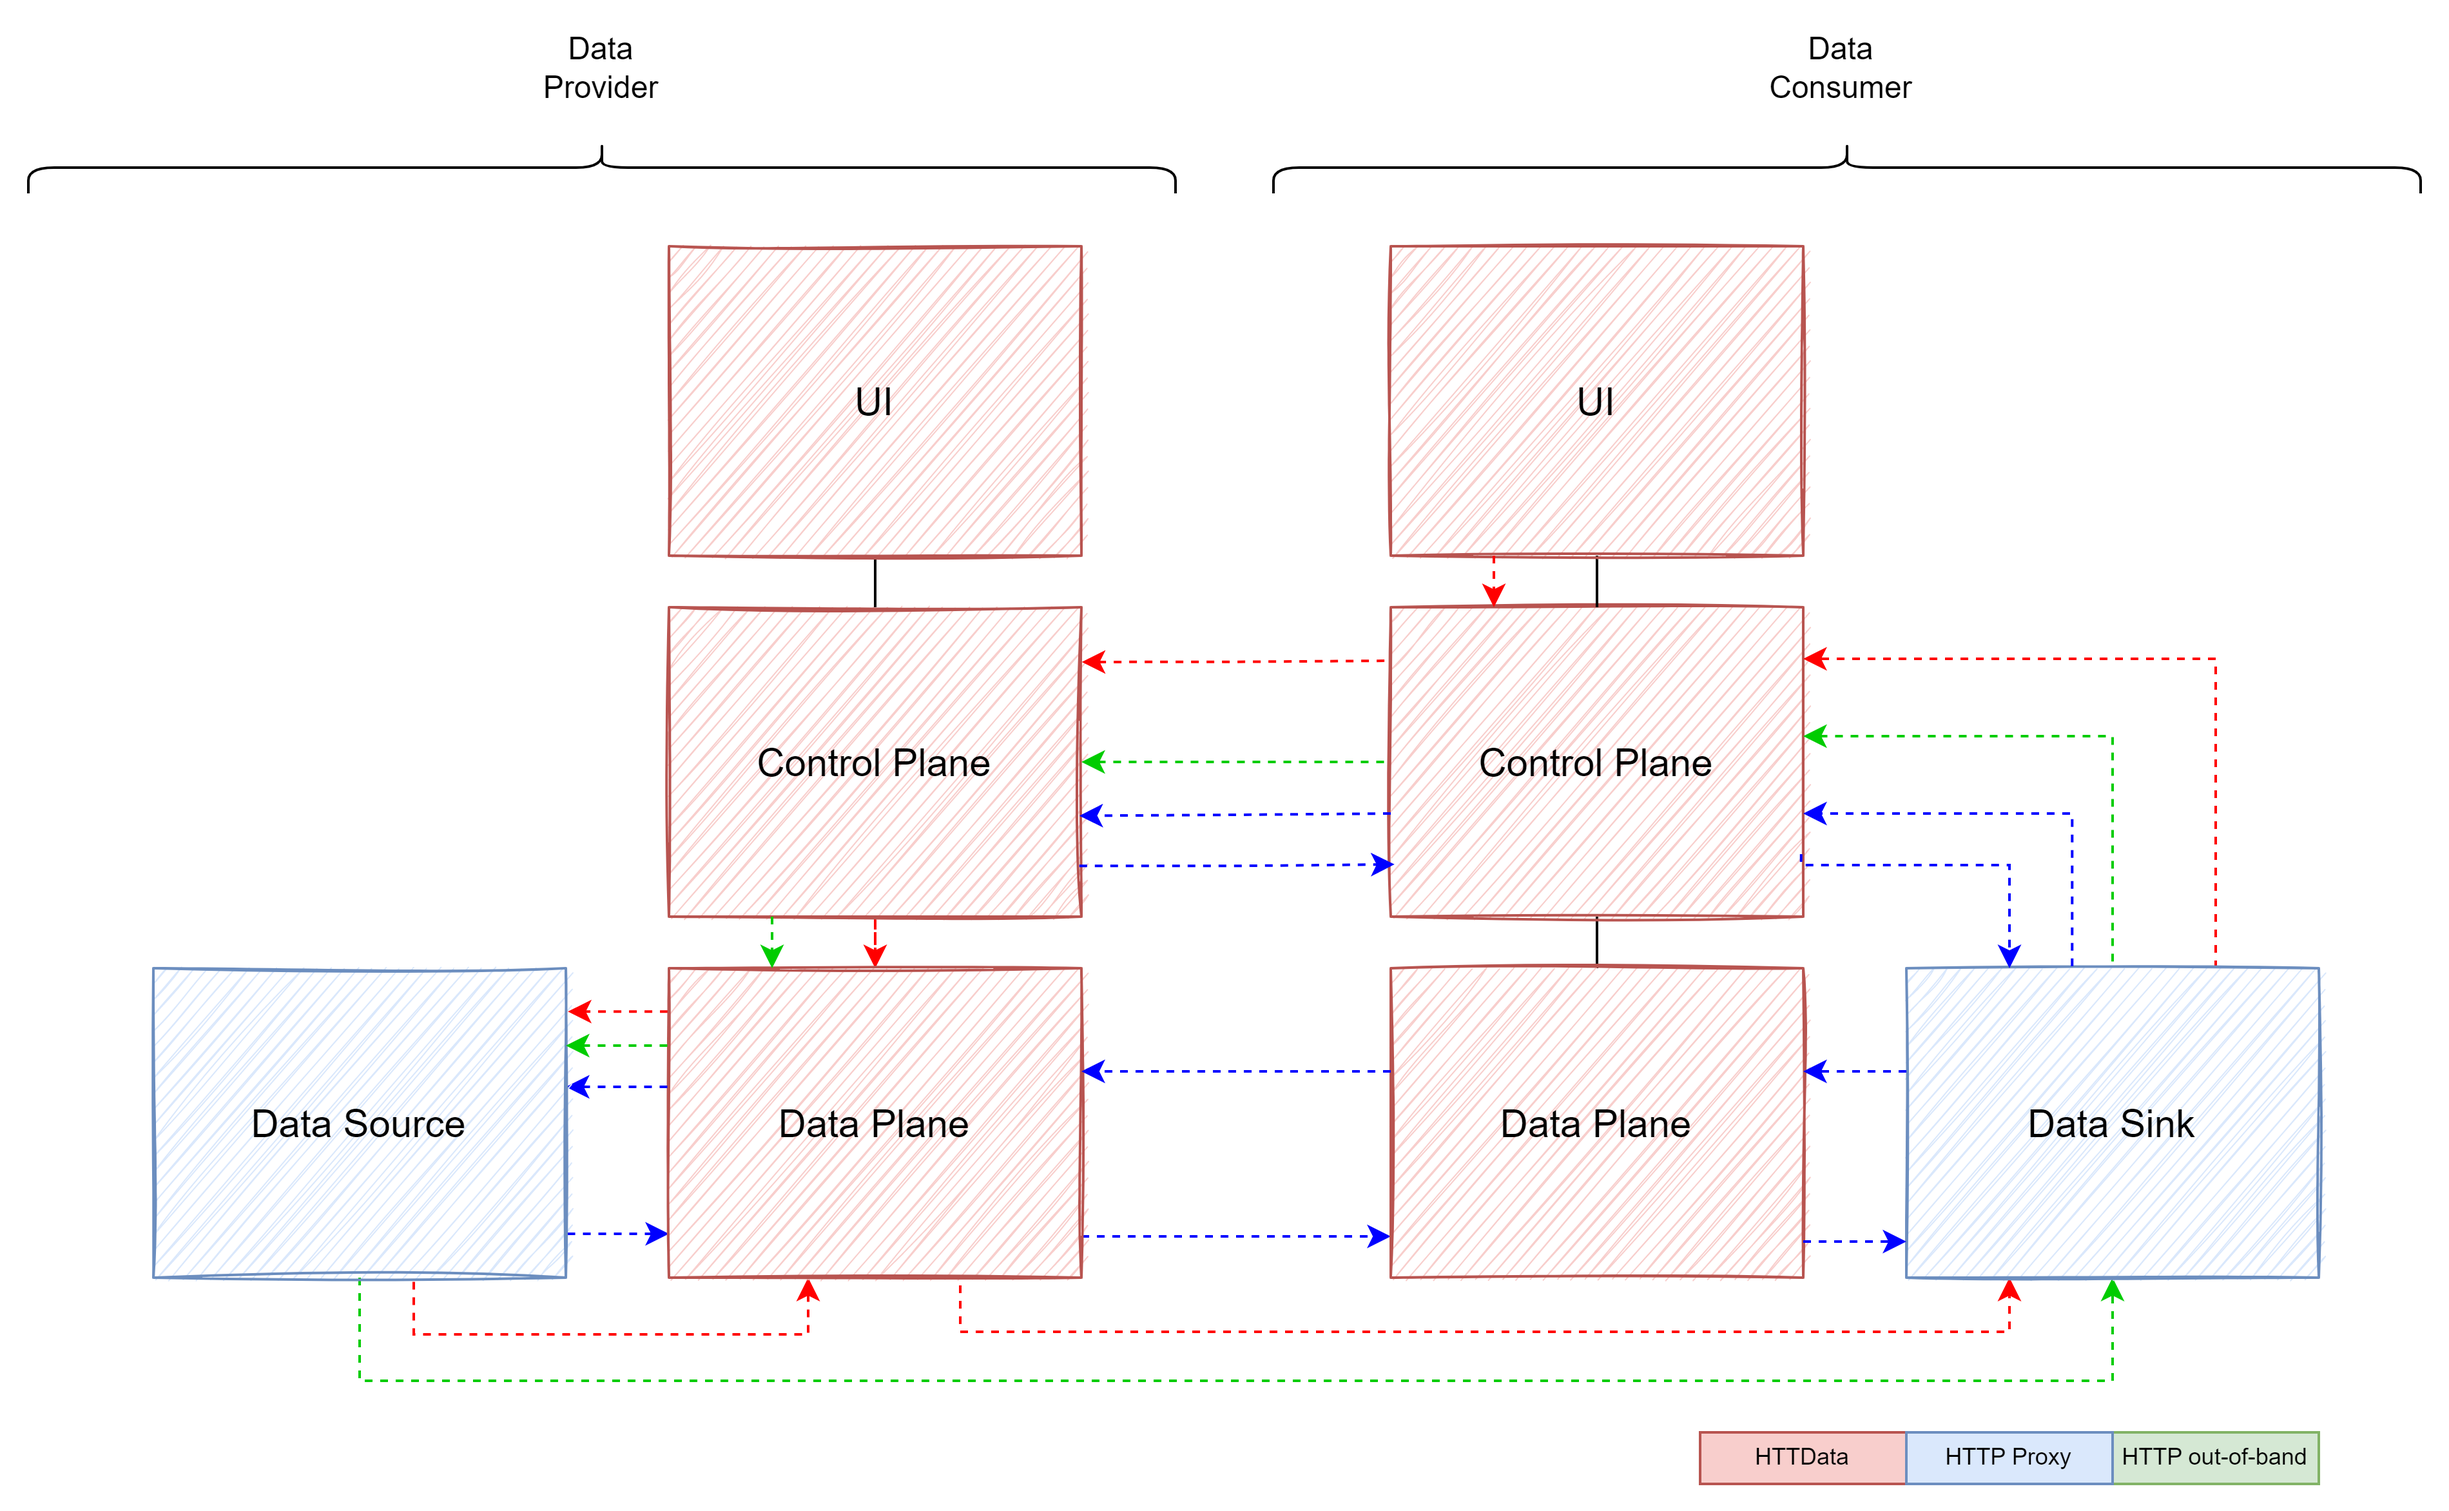
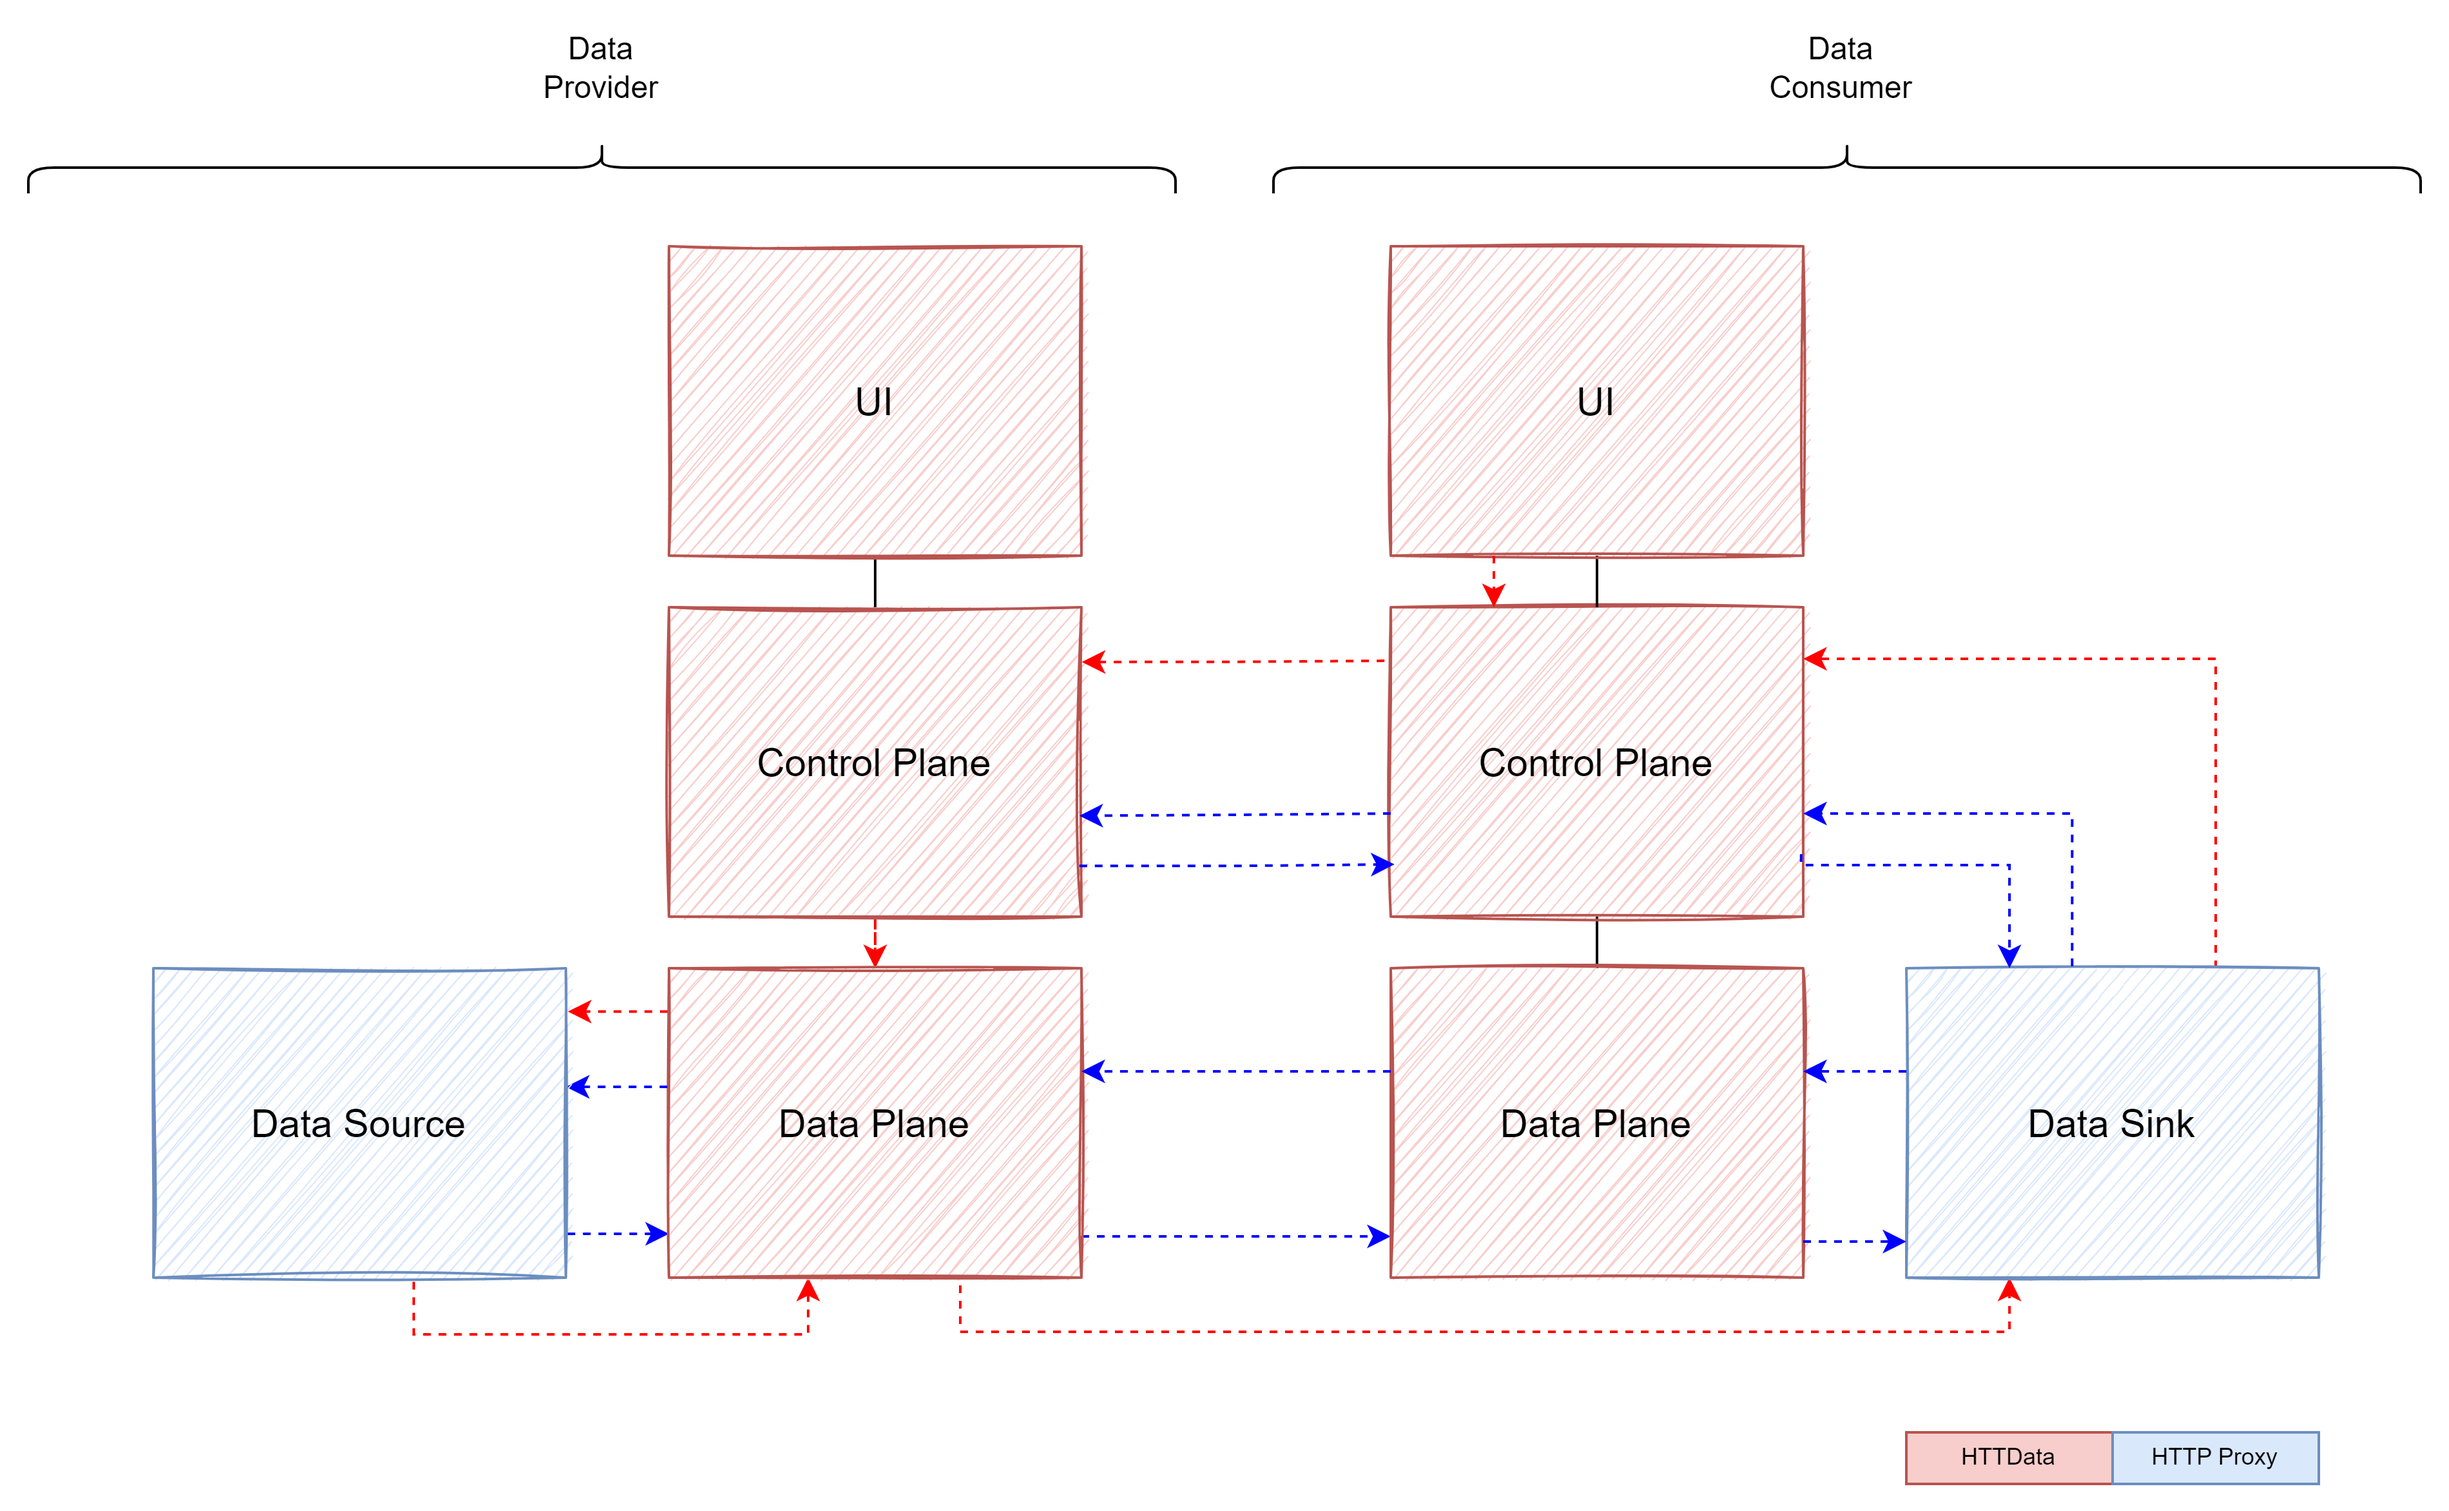
chore: update data-transfer-methods documentation (#824)
* Update data-transfer-methods.md

---------

Changed region(s): [[0.6832, 0.9343, 0.9626, 0.9966]]

diff --git a/docs/getting-started/documentation/data-transfer-methods.md b/docs/getting-started/documentation/data-transfer-methods.md
@@ -5,8 +5,6 @@ The connector supports three different data transfer modes:
 
 1. HTTPData: The provider EDC fetches the data from its own backend and pushes it to the consumer's desired data sink.
 2. HTTPProxy: The provider EDC fetches the data and passes it on consumer's data transfer request synchronously back to the consumer.
-3. OutOfBand: The data source transfers the data directly to the data sink. The data is not routed through the connector.
 
 The following diagram illustrates the different transmission modes:
-
 ![data-transfer-methods.png](images%2Fdata-transfer-methods.png)
